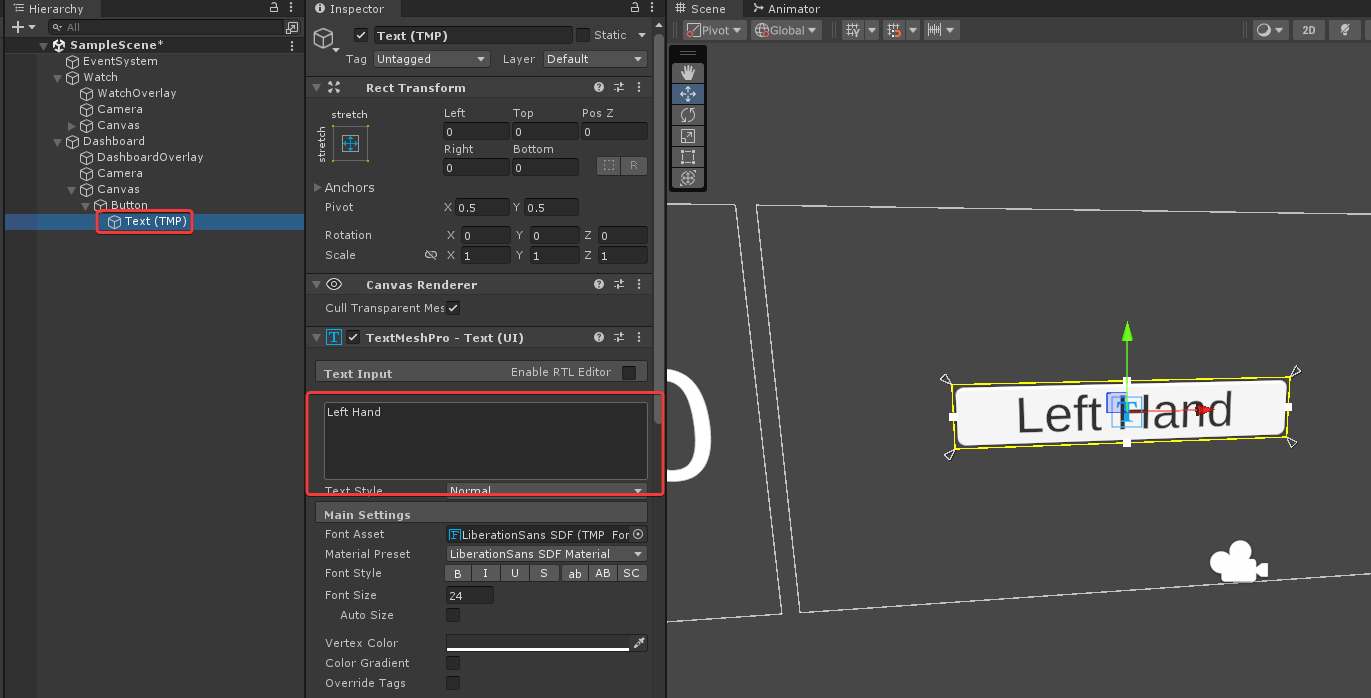
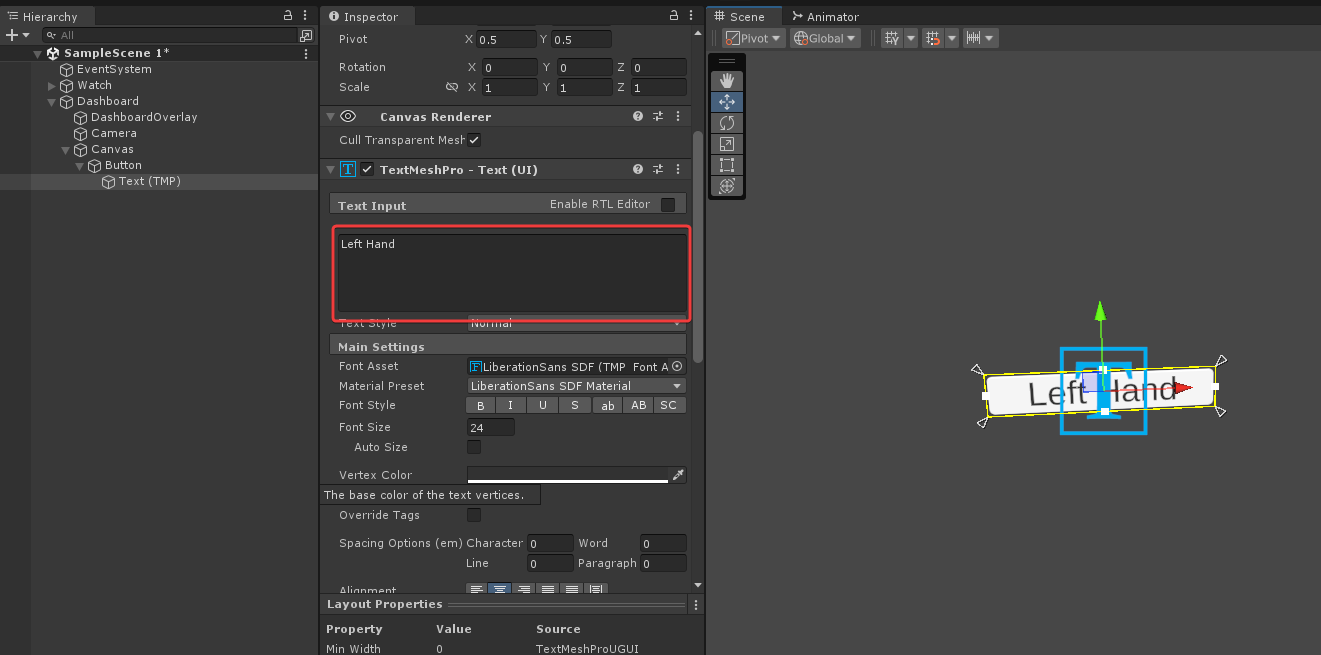
ダッシュボードオーバーレイの表示まで

diff --git a/books/a082c5728cc1f6/dashboard.md b/books/a082c5728cc1f6/dashboard.md
@@ -6,7 +6,7 @@ free: false
 Steam のダッシュボードに設定画面を作ります。
 設定画面で左右のコントローラどちらに時計を表示するか選べるようにします。
 
-TODO: ダッシュボードの画像
+![](/images/dashboard-preview.jpg)
 
 ## DashboardOverlay の作成
 `Scripts/DashboardOverlay.cs` を新規作成します。
@@ -14,7 +14,7 @@ TODO: ダッシュボードの画像
 
 ## ダッシュボードオーバーレイの作成
 ダッシュボードオーバーレイの作成は [CreateDashboardOverlay()](https://valvesoftware.github.io/steamvr_unity_plugin/api/Valve.VR.CVROverlay.html#Valve_VR_CVROverlay_CreateDashboardOverlay_System_String_System_String_System_UInt64__System_UInt64__) で行います。（詳細は [Wiki](https://github.com/ValveSoftware/openvr/wiki/IVROverlay::CreateDashboardOverlay) を参照）
-下のコードを DashboardOverlay.cs へコピーしてください。
+下のコードを `DashboardOverlay.cs` へコピーしてください。
 
 ```cs:DashboardOverlay.cs
 using UnityEngine;
@@ -38,7 +38,7 @@ public class DashboardOverlay : MonoBehaviour
 ```
 
 作成するとダッシュボードとサムネイルの 2 つが作成され、それぞれのオーバーレイハンドルが取得されます。
-dashboardHandle が設定画面、thumbnailHandle がダッシュボードの下に表示されるアイコン用のオーバーレイです。
+`dashboardHandle` が設定画面、`thumbnailHandle` がダッシュボードの下に表示されるアイコン用のオーバーレイです。
 
 ## シーンに設置
 Hierarchy ビューで右クリック > Create Empty で空のゲームオブジェクトを作成します。
@@ -47,8 +47,8 @@ Hierarchy ビューで右クリック > Create Empty で空のゲームオブジ
 ![](/images/create-dashboard-object.png)
 
 ## OpenVR の初期化、クリーンアップ
-OpenVR.Overlay API を使用するためには、OpenVR が初期化されている必要があります。
-今回は、WatchOverlay.cs で作成した OpenVR の初期化処理を、共有のユーティリティとして抜き出して、他のクラスからも呼び出せるようにします。
+OpenVR の API を使用するためには、OpenVR が初期化されている必要があります。
+今回は、`WatchOverlay.cs` で作成した OpenVR の初期化処理を、共有のユーティリティとして抜き出して、他のクラスからも呼び出せるようにします。
 
 ### ユーティリティクラスの作成
 `Scripts/OpenVRUtil.cs` を作成します。
@@ -65,7 +65,7 @@ namespace OpenVRUtil
 }
 ```
 
-ここでの namespace は名前衝突の回避と、わかりやすさのためにつけているだけです。
+ここでの namespace は名前衝突の回避と、わかりやすさのためにつけています。
 
 ### OpenVR の初期化処理を移動
 `WatchOverlay.cs` から `InitOpenVR()` を `OpenVRUtil.cs` に移動します。
@@ -128,7 +128,7 @@ namespace OpenVRUtil
 ```
 
 ### OpenVR のクリーンアップ処理を移動
-同様に `ShutdownOpenVR()` も static メソッドとして移動します。
+同様に `ShutdownOpenVR()` も `static` メソッドとして移動します。
 
 
 ```diff cs:WatchOverlay.cs
@@ -311,7 +311,7 @@ namespace OpenVRUtil
 ```
 
 ### 処理の呼び出し部分の変更
-移動した処理を OpenVRUtil から呼び出すように WatchOverlay.cs を修正します。
+移動した処理を `OpenVRUtil` から呼び出すように `WatchOverlay.cs` を修正します。
 
 ```diff cs:WatchOverlay.cs
 using System;
@@ -322,8 +322,7 @@ using Valve.VR;
 public class WatchOverlay : MonoBehaviour
 {
     public Camera camera;
-    private RenderTexture renderTexture;
-
+    public RenderTexture renderTexture;
     private ulong overlayHandle = OpenVR.k_ulOverlayHandleInvalid;
 
     [Range(0, 0.5f)] public float size;
@@ -340,9 +339,6 @@ public class WatchOverlay : MonoBehaviour
 +       OpenVRUtil.System.InitOpenVR();
 -       overlayHandle = CreateOverlay("WatchOverlayKey", "WatchOverlay");
 +       overlayHandle = Overlay.CreateOverlay("WatchOverlayKey", "WatchOverlay");
-
-        renderTexture = new RenderTexture(512, 512, 16, RenderTextureFormat.ARGBFloat);
-        camera.targetTexture = renderTexture;
 
 -       flipOverlayVertical(overlayHandle);
 +       Overlay.flipOverlayVertical(overlayHandle);
@@ -439,7 +435,7 @@ public class DashboardOverlay : MonoBehaviour
 
 ## サムネイルの表示
 サムネイルオーバーレイに画像を表示します。
-以前画像の表示に使用した `SetOverlayFromFile()` と SNS のアイコンをそのまま使ってみます。
+以前画像の表示に使用した `SetOverlayFromFile()` と SNS のアイコンがあるので、それを使用します。
 
 ```diff cs:DashboardOverlay.cs
 private void Start()
@@ -461,8 +457,8 @@ private void Start()
 
 ![](/images/dashboard-thumbnail.jpg)
 
-ダッシュボードオーバーレイには、まだなに描画していないので、選択しても何も表示されません。
-サムネイルをポイントしたときに表示されるテキスト（Watch Setting）は、オーバーレイの name に設定した文字列です。
+ダッシュボードオーバーレイには、まだ何も描画していないので、選択しても表示されません。
+サムネイルにレーザポインタを当てたときに表示されるテキスト（ここでは "Watch Setting"）は、オーバーレイの name に設定した文字列です。
 
 ## 設定画面の作成
 
@@ -486,14 +482,28 @@ Hierarchy で右クリック > Create Empty で空のゲームオブジェクト
 ![](/images/dashboard-canvas-camera.png)
 
 ### カメラの設定
+ダッシュボード用のカメラについて、
 Camera の Clear Flags を Solid Color に設定します。
-Camera の Background の色をクリックして、不透明な灰色 (RGBA = 32, 32, 32, 255) に設定します。
+Camera の Background の色をクリックして、不透明な灰色 (RGBA = 64, 64, 64, 255) に設定します。
+![](/images/gray-bg-color.png)
+
 Camera の AudioListener コンポーネントを削除します。
 ![](/images/remove-dashboard-audio-listener.png)
 
-TODO: 色設定の画像を追加
+### Render Texture の作成
+ダッシュボード用の Render Texture を作成します。
+`Assets/RenderTexture` フォルダ内に Render Texture アセットを新規作成します。
+アセット名を `DashboardRenderTexture` に変更します。
+![](/images/create-dashboard-rendertexture.png)
+
+インペクタでサイズを 1024 x 768 に設定します。
+![](/images/set-dashboard-rendertexture-size.png)
+
+ダッシュボード用のカメラの Render Texture に、`DashboardRenderTexture` を設定します。
+![](/images/attach-dashboard-rendertexture.png)
 
 ### Canvas の設定
+ダッシュボード用の Canvas について
 Canvas の Render Mode を Screen Space - Camera に設定します。
 Render Camera に、先ほど作成した Camera をドラッグします。
 Plane Distance を 10 に設定します。
@@ -505,15 +515,26 @@ Plane Distance を 10 に設定します。
 
 ### ボタンの作成
 Hierarchy で `Dashboard/Canvas` を右クリック > Button - TextMeshPro を追加します。
-Hierarchy で作成した Button の下の階層にある `Text (TMP)` をクリックして、インスペクタからボタンのテキストを「Left Hand」に変更します。
+オブジェクト名を `LeftHandButton` に変更します。
+Hierarchy でボタンの下の階層にある `Text (TMP)` をクリックして、インスペクタからボタンのテキストを「Left Hand」に変更します。
 ![](/images/left-hand-button.png)
 
-Hierarchy で Button ゲームオブジェクトを右クリック > Duplicate でボタンを複製します。
-先ほどと同様にしてテキストを「Right Hand」に変更します。
+`LeftHandButton` の Width = 700、Height = 200 に設定します。
+![](/images/change-button-size.png)
 
-左手用のボタンのオブジェクト名を `LeftHandButton`、右手用のボタンのオブジェクト名を `RightHandButton` に変更します。
-Scene ビューで `LeftHandButton` を少し上に移動、`RightHandButton` を少し下に移動してください。
+ボタンのテキストの Font Size を 100 に設定します。
+![](/images/change-button-font-size.png)
+
+Hierarchy で `LeftHandButton` を右クリック > Duplicate でボタンを複製します。
+オブジェクト名を `RightHandButton` に変更します。
+先ほどと同様にテキストを「Right Hand」に変更します。
+![](/images/right-hand-button-text.png)
+
+`LeftHandButton` の Pos Y を 150 に、
+`RightHandButton` の Pos Y を -150 にして、上下に並べます。
 ![](/images/buttons-layout.png)
+
+これでボタンの作成は完了です。
 
 ## ダッシュボードに描画
 
@@ -543,19 +564,21 @@ public class DashboardOverlay : MonoBehaviour
     ～省略～
 ```
 
-Hierarchy で DashboardOverlay をクリックして、Camera 変数に Dashboard/Camera をドラッグして設定します。
+Hierarchy で `DashboardOverlay` をクリックして、`Camera` 変数に `Dashboard/Camera` をドラッグします。
 ![](/images/add-dashboard-camera.png)
 
-### レンダーテクスチャを作成
-`DashboardOverlay.cs` で Render Texture の変数を作成して、カメラの映像が書き込まれるようにします。
-また、`flipOverlayVertical()` でテクスチャの上下をはんたんさせます。
+### レンダーテクスチャの関連付け
+`DashboardOverlay.cs` でレンダーテクスチャの変数を作成して、カメラの映像が書き込まれるようにします。
+また、`flipOverlayVertical()` でテクスチャの上下を反転させておきます。
+`SetOverlaySize()` でオーバーレイのサイズを 2.5 m に設定します。
+
 ```diff cs:DashboardOverlay.cs
 public class DashboardOverlay : MonoBehaviour
 {
     public Camera camera;
++   public RenderTexture renderTexture; 
     private ulong dashboardHandle = OpenVR.k_ulOverlayHandleInvalid;
     private ulong thumbnailHandle = OpenVR.k_ulOverlayHandleInvalid;
-+   private RenderTexture renderTexture; 
 
     private void Start()
     {
@@ -569,25 +592,26 @@ public class DashboardOverlay : MonoBehaviour
 
         var filePath = System.IO.Path.Combine(Application.streamingAssetsPath, "sns-icon.jpg");
         Overlay.SetOverlayFromFile(thumbnailHandle, filePath);
-        
-+       renderTexture = new RenderTexture(1024, 768, 16, RenderTextureFormat.ARGBFloat);
-+       camera.targetTexture = renderTexture;
-+
+
++       Overlay.SetOverlaySize(dashboardHandle, 2.5f);        
 +       Overlay.flipOverlayVertical(dashboardHandle);
     }
 
     ～省略～
 ```
 
+Hierarchy で `DashboardOverlay` を選択し、`Assets/RenderTextures/DashboardRenderTexture` を Render Texture へドラッグします。
+![](/images/attach-dashboard-rendertexture-to-overlay.png)
+
 ### レンダーテクスチャをダッシュボードオーバーレイに描画
-Update() を作成して、Render Texture をオーバーレイに描画します。
+`Update()` を作成して、Render Texture をオーバーレイに描画します。
 ```diff cs:DashboardOverlay.cs
 public class DashboardOverlay : MonoBehaviour
 {
     public Camera camera;
+    public RenderTexture renderTexture; 
     private ulong dashboardHandle = OpenVR.k_ulOverlayHandleInvalid;
     private ulong thumbnailHandle = OpenVR.k_ulOverlayHandleInvalid;
-    private RenderTexture renderTexture; 
 
     private void Start()
     {
@@ -605,6 +629,7 @@ public class DashboardOverlay : MonoBehaviour
         renderTexture = new RenderTexture(1024, 768, 16, RenderTextureFormat.ARGBFloat);
         camera.targetTexture = renderTexture;
 
+        Overlay.SetOverlaySize(dashboardHandle, 2.5f);
         Overlay.flipOverlayVertical(dashboardHandle);
     }
 
@@ -616,11 +641,30 @@ public class DashboardOverlay : MonoBehaviour
     ～省略～
 ```
 
+プログラムを実行して、ダッシュボードを開き、サムネイルをクリックしてください。
+設定画面が描画されていれば OK です。
+![](/images/dashboard-preview.jpg)
 
-### 左右のどちらのコントローラに表示するかを保存する変数
-WatchOverlay.cs に左右のどちらの手に表示するかを決めるメンバを作成します。
-```cs
-private ETrackedControllerRole targetHand = EtrackedControllerRole.LeftHand;
+## 左右コントローラの切り替え
+
+### 変数の作成
+`WatchOverlay.cs` に左右のどちらの手に表示するかを決める変数を作成します。
+`EtrackedControllerRole.LeftHand`, `ETrackedControllerRole.RightHand` が定義されているので、今回は `ETrackedControllerRole` 型を使います。
+```diff cs:DashboardOverlay.cs
+using UnityEngine;
+using Valve.VR;
+using System;
+using OpenVRUtil;
+
+public class DashboardOverlay : MonoBehaviour
+{
+    public Camera camera;
+    public RenderTexture renderTexture;
+    private ulong dashboardHandle = OpenVR.k_ulOverlayHandleInvalid;
+    private ulong thumbnailHandle = OpenVR.k_ulOverlayHandleInvalid;
++   private ETrackedControllerRole targetHand = EtrackedControllerRole.LeftHand;
+
+    ～省略～
 ```
 
 ### 左右の切り替え
